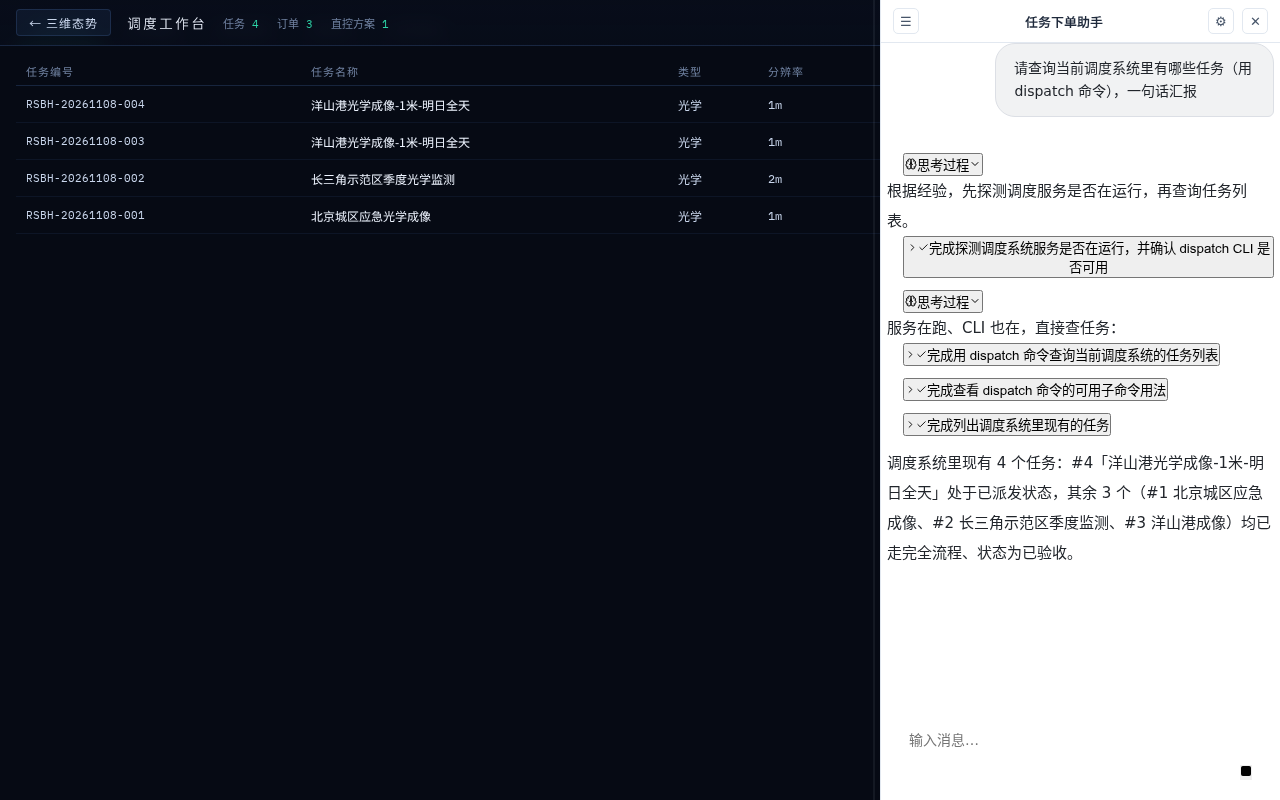
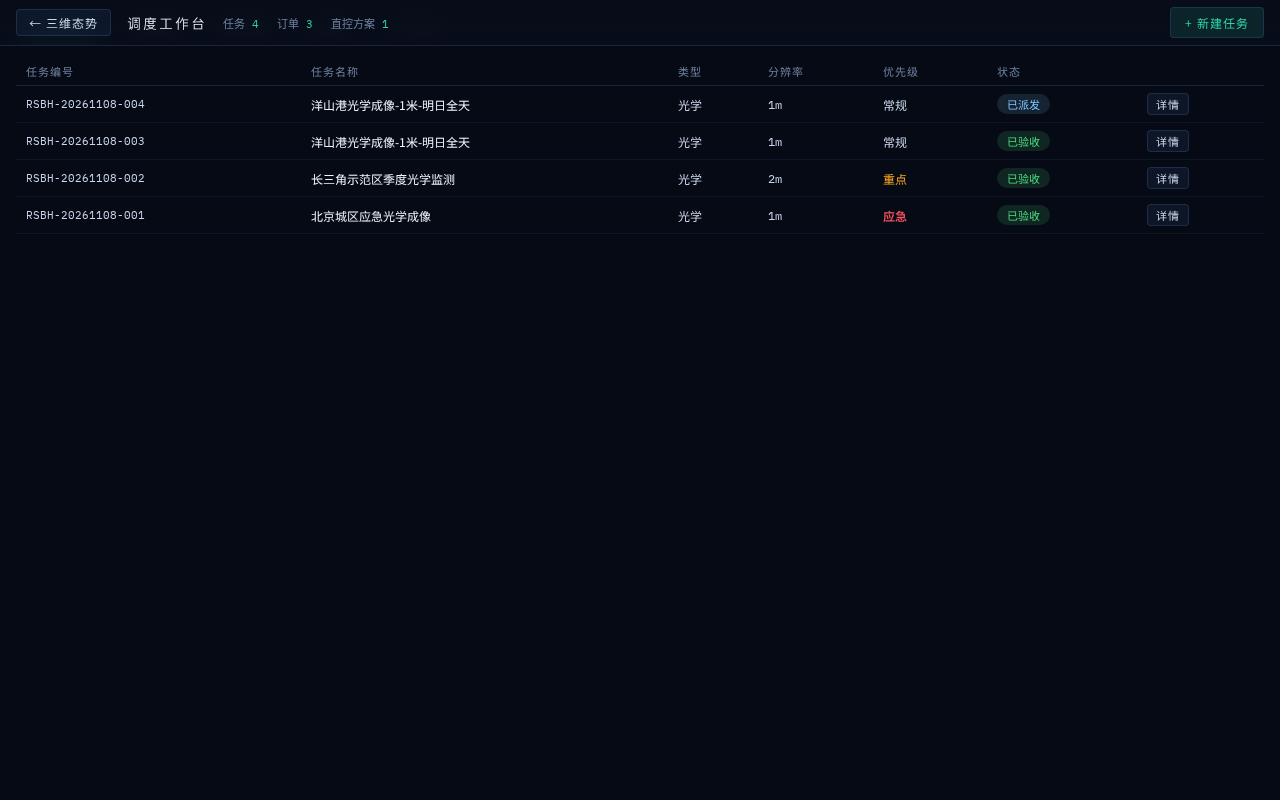
前端通信优化：工作台打开暂停三维轮询与渲染、AgentPane按需挂载、工作台并行加载降频、三维更新签名去重、生产构建分包（1.7MB主包→82KB+3个并行vendor）

diff --git a/client/src/App.jsx b/client/src/App.jsx
@@ -105,11 +105,11 @@ export default function App() {
   }, []);
 
   useEffect(() => {
-    if (!isLive) return;
+    if (!isLive || workbench) return; // 工作台全屏打开时暂停三维态势轮询，让出主线程与带宽
     fetchPositions();
     const t = setInterval(fetchPositions, 5000);
     return () => clearInterval(t);
-  }, [isLive, fetchPositions]);
+  }, [isLive, workbench, fetchPositions]);
 
   // 时钟
   useEffect(() => {
@@ -117,9 +117,21 @@ export default function App() {
     return () => clearInterval(t);
   }, []);
 
+  // 工作台全屏打开时暂停三维渲染，关闭时恢复
+  useEffect(() => {
+    const s3d = scene3dRef.current;
+    if (!s3d) return;
+    if (workbench) s3d.pause(); else s3d.resume();
+  }, [workbench, sceneReady]);
+
   // ─── 位置更新到三维 ───
+  const lastPositionsSig = useRef('');
   useEffect(() => {
     if (!satLayerRef.current) return;
+    // 引用签名去重：轮询返回内容相同时跳过整场景更新
+    const sig = positions.length + ':' + (positions[0]?.noradId ?? '') + ':' + Math.round(positions[0]?.lat ?? 0);
+    if (sig === lastPositionsSig.current) return;
+    lastPositionsSig.current = sig;
     const visible = positions.filter(s => enabledCats.has(s.category));
     satLayerRef.current.updatePositions(visible);
     if (selectedSat) satLayerRef.current.highlight(selectedSat.noradId);
@@ -446,7 +458,7 @@ export default function App() {
       )}
       {workbench && <DispatchWorkbench onBack={() => setWorkbench(false)} />}
       <AgentPane
-        visible={agentVisible || workbench}
+        visible={agentVisible}
         onClose={() => setAgentVisible(false)}
         getContext={() => ({
           page: workbench ? "调度工作台" : "三维态势",

diff --git a/client/src/pages/DispatchWorkbench.jsx b/client/src/pages/DispatchWorkbench.jsx
@@ -8,6 +8,7 @@ const TASK_STATUS_COLOR = {
   '直控执行中': '#f5a524',
 };
 
+
 export default function DispatchWorkbench({ onBack }) {
   const [tab, setTab] = useState('tasks'); // tasks|orders|pool|plans|companies
   const [tasks, setTasks] = useState([]);
@@ -21,14 +22,22 @@ export default function DispatchWorkbench({ onBack }) {
   const [msg, setMsg] = useState(null);
 
   const load = useCallback(async () => {
-    setTasks(await api('/dispatch/tasks').catch(() => []));
-    setOrders(await api('/dispatch/orders').catch(() => []));
-    setPlans(await api('/dispatch/plans').catch(() => []));
-    setCompanies(await api('/dispatch/companies').catch(() => []));
-    setPool(await api('/dispatch/pool').catch(() => []));
+    // 并行拉取（原来是 5 个串行 await，最慢者拖累全部）
+    const [t, o, p, c, pl] = await Promise.all([
+      api('/dispatch/tasks').catch(() => []),
+      api('/dispatch/orders').catch(() => []),
+      api('/dispatch/plans').catch(() => []),
+      api('/dispatch/companies').catch(() => []),
+      api('/dispatch/pool').catch(() => []),
+    ]);
+    setTasks(t); setOrders(o); setPlans(p); setCompanies(c); setPool(pl);
   }, []);
 
-  useEffect(() => { load(); const t = setInterval(load, 8000); return () => clearInterval(t); }, [load]);
+  useEffect(() => {
+    load();
+    const t = setInterval(load, 15000); // 8s→15s：列表类数据不需要高频
+    return () => clearInterval(t);
+  }, [load]);
 
   const openTask = async (id) => {
     setSelected(await api(`/dispatch/tasks/${id}`));

diff --git a/client/src/scene3d.js b/client/src/scene3d.js
@@ -116,9 +116,11 @@ export function createScene(container) {
 
   // ─── 渲染循环 ───
   let animFrame = 0;
+  let paused = false;
   const clock = new THREE.Clock();
   const renderLoop = () => {
     animFrame = requestAnimationFrame(renderLoop);
+    if (paused) return; // 暂停时保留循环但跳过渲染，恢复即续
     controls.update();
     renderer.render(scene, camera);
   };
@@ -183,6 +185,8 @@ export function createScene(container) {
     satGroup, trackGroup, aoiGroup, layerGroup,
     pick, pickGlobe, resize, dispose,
     latLonAltToVec,
+    pause: () => { paused = true; },
+    resume: () => { paused = false; },
   };
 }
 
